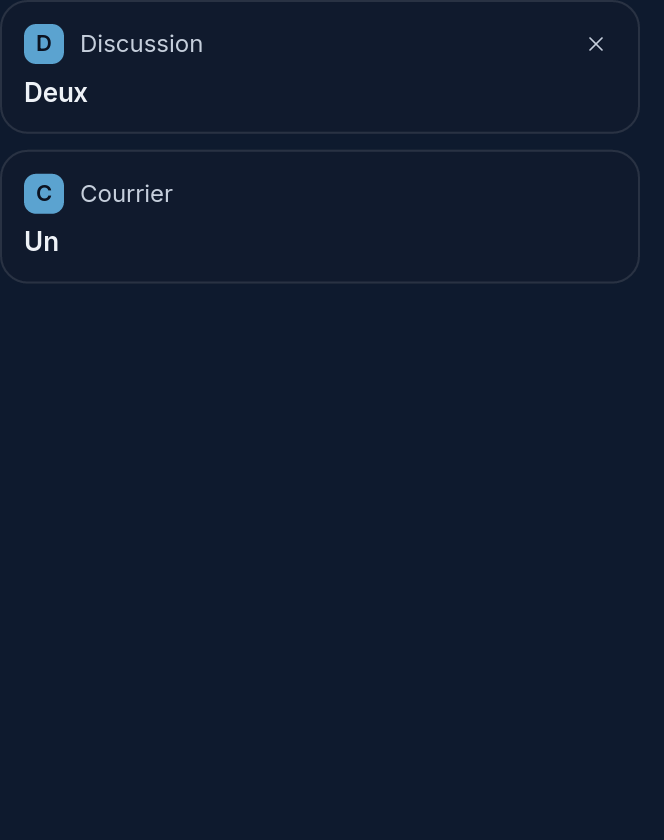
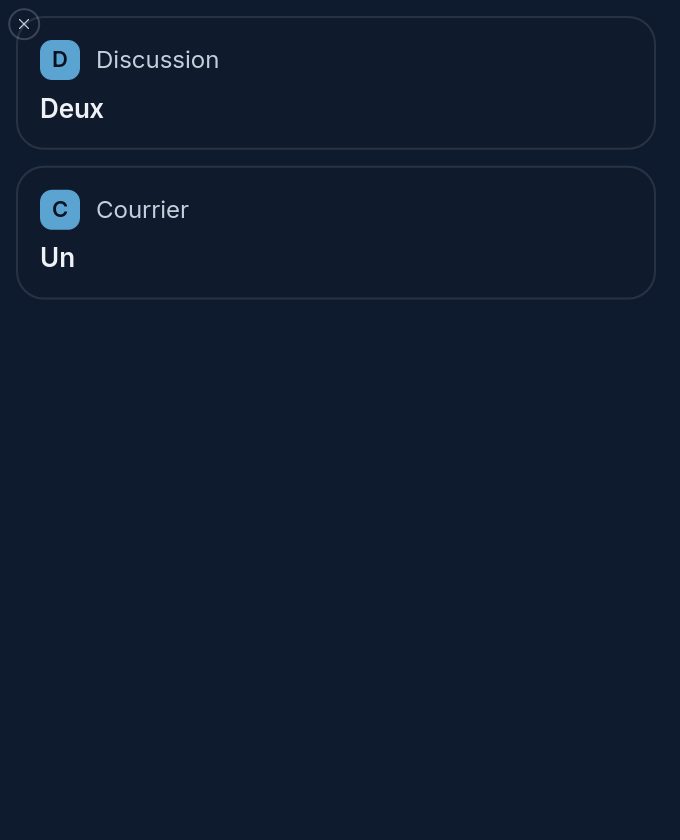
D-23f: the « × » of a bubble is the macOS badge, half outside its top left corner, faded in under the pointer

Changed region(s): [[0.0, 0.0, 0.9337, 0.3405]]

diff --git a/desktop/notifications/src/app.rs b/desktop/notifications/src/app.rs
@@ -20,7 +20,7 @@ use iced_exwlshell::shell::{ShellEvent, ShellReceiver};
 use iced_exwlshell::to_layer_message;
 use sherlock_ui::animated::hoverable;
 use sherlock_ui::ellipsis::ellipsis;
-use sherlock_ui::motion::{Animation, GEOMETRY_PRECISION};
+use sherlock_ui::motion::{Animation, Fade, GEOMETRY_PRECISION};
 use sherlock_ui::notifications::{self as ui, SPRING};
 use sherlock_ui::{color, typography};
 
@@ -199,6 +199,8 @@ struct Bubble {
     options: bool,
     /// The pointer is over it; a button is held on it.
     hovered: bool,
+    /// The opacity of its « × », fading in and out with the pointer (lot D-23f).
+    close: Fade,
     pressed: bool,
     /// How far the fingers pulled it to the right, and when they last moved.
     swipe: f32,
@@ -257,6 +259,7 @@ impl Notifications {
             !b.top.is_done(now, GEOMETRY_PRECISION)
                 || !b.slide.is_done(now, GEOMETRY_PRECISION)
                 || b.swipe != 0.0
+                || !b.close.is_done(now)
         })
     }
 
@@ -316,6 +319,9 @@ impl Notifications {
             Message::Hover(serial, held) => {
                 if let Some(bubble) = self.bubble_mut(serial) {
                     bubble.hovered = held;
+                    let shown = bubble.close.value(now);
+                    let target = if held { 1.0 } else { 0.0 };
+                    bubble.close = Fade::new(shown, target, now, ui::CLOSE_FADE);
                     bubble.pressed &= held;
                 }
                 if let Some(id) = self.live(serial) {
@@ -487,6 +493,7 @@ impl Notifications {
                 leaving: false,
                 options: false,
                 hovered: false,
+                close: Fade::new(0.0, 0.0, Duration::ZERO, Duration::ZERO),
                 pressed: false,
                 swipe: 0.0,
                 swiped_at: None,
@@ -607,13 +614,14 @@ impl Notifications {
         let layers = self.bubbles.iter().map(|b| {
             let id = b.serial;
             let dx = at(&b.slide, now) + b.swipe;
-            let slid = float(bubble(b)).translate(move |_, _| Vector::new(dx, 0.0));
+            let slid = float(bubble(b, now)).translate(move |_, _| Vector::new(dx, 0.0));
             // Keyed by the serial: a bubble that takes the place of another is measured anew.
             let measured = sensor(slid)
                 .key(id)
                 .anticipate(f32::MAX)
-                .on_show(move |size| Message::Measured(id, size.height))
-                .on_resize(move |size| Message::Measured(id, size.height));
+                // Its height without the room of « × » above it.
+                .on_show(move |size| Message::Measured(id, size.height - ui::CLOSE_OUTSET))
+                .on_resize(move |size| Message::Measured(id, size.height - ui::CLOSE_OUTSET));
             pin(measured).y(at(&b.top, now)).into()
         });
         Stack::with_children(layers)
@@ -635,7 +643,29 @@ fn at(animation: &Animation, now: Duration) -> f32 {
 
 /// A bubble: application, title, body and action buttons, as a card of the board. A click
 /// closes it or runs its default action; the pointer over it holds its timer.
-fn bubble(b: &Bubble) -> Element<'_, Message> {
+fn bubble(b: &Bubble, now: Duration) -> Element<'_, Message> {
+    // The room of « × », half outside the top left corner (lot D-23f), and the badge in it.
+    let room = Padding::ZERO.top(ui::CLOSE_OUTSET).left(ui::CLOSE_OUTSET);
+    let card = container(card(b)).padding(room);
+    if b.behind {
+        return card.into();
+    }
+    let shown = b.close.value(now);
+    let mut layers = iced::widget::stack![card];
+    if shown > 0.0 {
+        let badge = ui::close_badge(Message::Dismiss(b.serial), shown);
+        // Its centre on the curve of the corner.
+        layers = layers.push(container(badge).padding(ui::CLOSE_ON_CURVE));
+    }
+    // The pointer over the bubble or its « × »: the badge stays while it goes to it.
+    mouse_area(layers)
+        .on_enter(Message::Hover(b.serial, true))
+        .on_exit(Message::Hover(b.serial, false))
+        .into()
+}
+
+/// The card of a bubble, without the room of its « × ».
+fn card(b: &Bubble) -> Element<'_, Message> {
     let note = &b.note;
     let id = b.serial;
     // Behind the newest of its application, only its edge shows: an empty card of its height,
@@ -668,7 +698,7 @@ fn bubble(b: &Bubble) -> Element<'_, Message> {
         .into(),
     };
     // The application's name and the title on one line each, ending with « … » (D-23c).
-    let mut header = row![
+    let header = row![
         glyph,
         ellipsis(app_name(note))
             .size(ui::HEADER_SIZE)
@@ -677,10 +707,6 @@ fn bubble(b: &Bubble) -> Element<'_, Message> {
     ]
     .spacing(ui::HEADER_GAP)
     .align_y(Alignment::Center);
-    // « × » while the pointer is over it (D-23d).
-    if b.hovered && !b.behind {
-        header = header.push(ui::close_button(Message::Dismiss(id)));
-    }
     let mut content = column![header].spacing(ui::ROW_GAP);
     if !note.summary.is_empty() {
         content = content.push(ellipsis(note.summary.as_str()).font(typography::UI_SEMIBOLD));
@@ -747,10 +773,7 @@ fn bubble(b: &Bubble) -> Element<'_, Message> {
     // The blur behind its glass (lot D-37b).
     let card = sherlock_ui::glass::glass(card, ui::RADIUS);
     // A bubble behind another opens its pile; the others take a click, a press, a swipe.
-    let area = mouse_area(card)
-        .on_enter(Message::Hover(id, true))
-        .on_exit(Message::Hover(id, false))
-        .interaction(mouse::Interaction::Pointer);
+    let area = mouse_area(card).interaction(mouse::Interaction::Pointer);
     area.on_press(Message::Press(id))
         .on_release(Message::Click(id))
         .on_scroll(move |delta| match delta {

diff --git a/desktop/notifications/src/layout.rs b/desktop/notifications/src/layout.rs
@@ -1,11 +1,14 @@
 //! Pure geometry of the stack of bubbles, in the coordinates of the surface, which the
 //! compositor places below the area the top bar reserves (see `crate::surface`).
 
-use sherlock_ui::notifications::{GAP, PILE_DEPTH, PILE_STEP, SCREEN_EDGE, WIDTH};
+use sherlock_ui::notifications::{
+    CLOSE_ON_CURVE, CLOSE_OUTSET, CLOSE_SIZE, GAP, PILE_DEPTH, PILE_STEP, SCREEN_EDGE, WIDTH,
+};
 
-/// Width of the surface: a bubble and the room to the screen edge, so that a bubble sliding
-/// out leaves the screen at its edge.
-pub const SURFACE_WIDTH: f32 = WIDTH + SCREEN_EDGE;
+/// Width of the surface: the room of « × » on the left (lot D-23f), a bubble and the room to
+/// the screen edge, so that a bubble sliding out leaves the screen at its edge. The bubbles are
+/// drawn `CLOSE_OUTSET` from the left and from the top of the surface.
+pub const SURFACE_WIDTH: f32 = CLOSE_OUTSET + WIDTH + SCREEN_EDGE;
 /// Offset of a bubble out of sight, to the right: where it slides in from and out to.
 pub const OUT: f32 = SURFACE_WIDTH;
 
@@ -88,20 +91,30 @@ pub fn stack_piled(heights: &[f32], places: &[Place]) -> Vec<f32> {
 pub fn surface_height(bubbles: impl IntoIterator<Item = (f32, f32)>) -> u32 {
     let bottom = bubbles
         .into_iter()
-        .map(|(top, height)| top + height)
+        .map(|(top, height)| CLOSE_OUTSET + top + height)
         .fold(0.0_f32, f32::max);
     (bottom.ceil() as u32).max(1)
 }
 
-/// Where the surface takes the pointer: the rectangle of each bubble at `(top, height)`, in
-/// whole pixels rounded out. Between and beside the bubbles, clicks go to the window below.
+/// Where the surface takes the pointer: the rectangle of each bubble at `(top, height)`, and the
+/// square of its « × » on its top left corner (lot D-23f), in whole pixels rounded out. Between
+/// and beside the bubbles, clicks go to the window below.
 pub fn region(bubbles: impl IntoIterator<Item = (f32, f32)>) -> Vec<(i32, i32, i32, i32)> {
+    // The badge's square, rounded out: from the curve of the corner, less half the badge.
+    let (inset, side) = (
+        CLOSE_ON_CURVE.floor() as i32,
+        (CLOSE_SIZE + 1.0).ceil() as i32,
+    );
+    let outset = CLOSE_OUTSET as i32;
     bubbles
         .into_iter()
-        .map(|(top, height)| {
-            let y = top.floor() as i32;
-            let bottom = (top + height).ceil() as i32;
-            (0, y, WIDTH.ceil() as i32, bottom - y)
+        .flat_map(|(top, height)| {
+            let y = (CLOSE_OUTSET + top).floor() as i32;
+            let bottom = (CLOSE_OUTSET + top + height).ceil() as i32;
+            [
+                (outset, y, WIDTH.ceil() as i32, bottom - y),
+                (inset, y - outset + inset, side, side),
+            ]
         })
         .collect()
 }
@@ -116,7 +129,7 @@ mod tests {
         assert_eq!(stack(&[80.0, 120.5, 60.0]), [0.0, 88.0, 216.5]);
         let tops = stack(&[80.0, 120.5, 60.0]);
         let spans = tops.iter().copied().zip([80.0, 120.5, 60.0]);
-        assert_eq!(surface_height(spans), 277);
+        assert_eq!(surface_height(spans), 277 + CLOSE_OUTSET as u32);
         assert_eq!(surface_height([]), 1);
     }
 
@@ -154,7 +167,16 @@ mod tests {
     #[test]
     fn the_pointer_goes_through_the_gaps() {
         let region = region([(0.0, 80.0), (88.0, 120.5)]);
-        assert_eq!(region, [(0, 0, 320, 80), (0, 88, 320, 121)]);
+        // Each bubble, then the square of its « × », half outside its top left corner.
+        assert_eq!(
+            region,
+            [
+                (8, 8, 320, 80),
+                (4, 4, 17, 17),
+                (8, 96, 320, 121),
+                (4, 92, 17, 17)
+            ]
+        );
         // The room on the right, towards the screen edge, takes no click either.
         assert!(
             region

diff --git a/desktop/sherlock-ui/src/notifications.rs b/desktop/sherlock-ui/src/notifications.rs
@@ -96,6 +96,18 @@ pub const SWIPE_RESISTANCE: f32 = 0.25;
 pub const SWIPE_LINE: f32 = 40.0;
 /// The cross of « × », inside its button the size of the tile.
 pub const CLOSE_GLYPH: f32 = 12.0;
+/// « × » of a bubble, as on macOS (lot D-23f, the author's choice): a round badge on the top
+/// left corner, half outside the bubble, its side, its cross; the surface keeps `CLOSE_OUTSET`
+/// of room for it above and on the left. It fades in over `CLOSE_FADE` under the pointer.
+pub const CLOSE_SIZE: f32 = 16.0;
+pub const CLOSE_BADGE_GLYPH: f32 = 9.0;
+pub const CLOSE_OUTSET: f32 = CLOSE_SIZE / 2.0;
+pub const CLOSE_FADE: Duration = Duration::from_millis(120);
+/// How far inside the corner of the bubble's box the badge's centre sits: on the curve of its
+/// rounded corner, as on macOS, not beside it.
+pub const CLOSE_ON_CURVE: f32 = RADIUS * (1.0 - std::f32::consts::FRAC_1_SQRT_2);
+// The room above the badge is taken from the gap under the bar: the bubbles stay in place.
+const _: () = assert!(CLOSE_OUTSET <= BELOW_BAR);
 /// The theme icon of a notification is looked up at twice the tile (screens at scale 2).
 pub const ICON_LOOKUP_SIZE: u32 = 40;
 
@@ -214,6 +226,34 @@ mod styles {
             }
         }
         all.into()
+    }
+
+    /// « × » of a bubble under the pointer, the macOS badge (lot D-23f): round, on the glass of
+    /// a card, its border, at `opacity`.
+    pub fn close_badge<'a, Message: Clone + 'a>(
+        on_press: Message,
+        opacity: f32,
+    ) -> iced::Element<'a, Message> {
+        let p = crate::color::palette();
+        let glyph = crate::component::icon(
+            crate::icon::Icon::Close,
+            CLOSE_BADGE_GLYPH,
+            p.text_secondary,
+        );
+        let content = container(glyph).center(iced::Length::Fill);
+        let mut control = crate::component::Control::new(
+            content,
+            theme::secondary,
+            Some(on_press),
+            CLOSE_SIZE / 2.0,
+        );
+        control.label = Some(text::CLOSE);
+        control.button = control
+            .button
+            .width(CLOSE_SIZE)
+            .height(CLOSE_SIZE)
+            .padding(0);
+        crate::animated::reveal(control).opacity(opacity).into()
     }
 
     /// « × » of a bubble under the pointer (D-23d): the size of the application's tile, so that

diff --git a/desktop/notifications/src/lib.rs b/desktop/notifications/src/lib.rs
@@ -53,7 +53,8 @@ pub fn surface(height: u32) -> NewLayerShellSettings {
         anchor: Anchor::Top | Anchor::Right,
         exclusive_zone: Some(0),
         margin: Some(Margin {
-            top: ui::BELOW_BAR as i32,
+            // The room of « × » above the first bubble comes out of the gap under the bar.
+            top: (ui::BELOW_BAR - ui::CLOSE_OUTSET) as i32,
             ..Margin::default()
         }),
         keyboard_interactivity: KeyboardInteractivity::None,
@@ -134,19 +135,23 @@ mod tests {
         // 0, not -1: the compositor places it below the zone the bar reserves.
         assert_eq!(settings.exclusive_zone, Some(0));
         let margin = settings.margin.unwrap_or_default();
-        assert_eq!((margin.top, margin.right), (ui::BELOW_BAR as i32, 0));
+        assert_eq!(
+            (margin.top, margin.right),
+            ((ui::BELOW_BAR - ui::CLOSE_OUTSET) as i32, 0)
+        );
         assert_eq!(settings.keyboard_interactivity, KeyboardInteractivity::None);
-        assert_eq!(settings.size, LayerSize::px(332, 200));
+        assert_eq!(settings.size, LayerSize::px(340, 200));
         // On the reference screen: the bar reserves its margin and height, the first bubble
         // starts where the board puts the notification centre, 12 from the right edge.
         let reserved = metrics::TOP_BAR_MARGIN_TOP + metrics::TOP_BAR_HEIGHT;
-        let first = reserved + margin.top as f32 + layout::stack(&[90.0])[0];
+        let first = reserved + margin.top as f32 + ui::CLOSE_OUTSET + layout::stack(&[90.0])[0];
         assert_eq!(first, 54.0);
-        let right = metrics::REFERENCE_SCREEN.0 - margin.right as f32 - layout::SURFACE_WIDTH;
+        let right = metrics::REFERENCE_SCREEN.0 - margin.right as f32 - layout::SURFACE_WIDTH
+            + ui::CLOSE_OUTSET;
         assert_eq!(
             right + ui::WIDTH,
             metrics::REFERENCE_SCREEN.0 - ui::SCREEN_EDGE
         );
-        assert_eq!(surface(0).size, LayerSize::px(332, 1));
+        assert_eq!(surface(0).size, LayerSize::px(340, 1));
     }
 }

diff --git a/desktop/notifications/tests/render.rs b/desktop/notifications/tests/render.rs
@@ -265,7 +265,8 @@ mod tests {
     }
 
     /// D-23d: under the pointer a bubble shows « × », which dismisses it; swiped to the right
-    /// past a third of its width it goes, a shorter swipe springs back. `notifications-hover`.
+    /// past a third of its width it goes, a shorter swipe springs back. D-23f: the « × » is the
+    /// macOS badge, half outside the top left corner, faded in. `notifications-hover`.
     #[test]
     fn a_bubble_goes_with_its_close_button_or_a_swipe() {
         let (sink, inbox) = Inbox::new();
@@ -283,13 +284,16 @@ mod tests {
         settle(&mut app);
         // Serial 2, the newest, is on top.
         let _ = app.update(Message::Hover(2, true));
+        settle(&mut app);
         capture(&app, "notifications-hover");
-        // « × » at the right end of the header of the bubble on top.
+        // A taller bubble, with its actions: the badge on its corner too.
+        let mut tall = bubbles();
+        let _ = tall.update(Message::Hover(2, true));
+        settle(&mut tall);
+        capture(&tall, "notifications-hover-actions");
+        // « × » on the top left corner of the bubble on top, its outer half included.
         let messages = messages_of(&app, |ui| {
-            ui.point_at(Point::new(
-                ui::WIDTH - ui::PADDING - 8.0,
-                ui::PADDING + 10.0,
-            ));
+            ui.point_at(Point::new(6.0, 6.0));
             let _ = ui.simulate(simulator::click());
         });
         assert!(

diff --git a/docs/notifications.md b/docs/notifications.md
@@ -170,9 +170,13 @@ right edge; it slides out the same way, and the bubbles below close up. Both fol
 click counts on release, after a press on the bubble, and the press darkens it: the hover and
 press veils of `animated::hoverable` fade in over the glass, under the text (D-23d).
 
-**Closing** (D-23d). Under the pointer a bubble shows « × » at the right end of its header
-(`notifications::close_button`, the size of the tile, so that nothing moves): it closes the
-notification, dismissed (reason 2), with no action. Swiped to the right with two fingers, the
+**Closing** (D-23d, D-23f). Under the pointer a bubble shows « × » as on macOS, the author's
+choice: a round badge of 16 on its top left corner, its centre on the curve of the corner, half
+outside the bubble, fading in and out over 120 ms (`notifications::close_badge`). It closes the
+notification, dismissed (reason 2), with no action. The surface keeps 8 of room for it on the
+left and above (`CLOSE_OUTSET`, taken from the gap under the bar: the bubbles stay where they
+were), and its input region takes the badge's square besides the bubble, nothing more: the
+pointer over the badge stays over the bubble, and beside them it goes to the window below. Swiped to the right with two fingers, the
 bubble follows them, held back to a quarter of the way to the left; once they rest 120 ms
 (`SWIPE_END`), past a third of its width (`SWIPE_DISMISS`) it slides on out and is dismissed,
 else it springs back.
@@ -186,6 +190,7 @@ stack, its newest bubble then saying « Afficher moins ». A pile of one closes 
 ![A pile of three bubbles above another application](../desktop/notifications/screenshots/pile.png)
 ![The pile opened](../desktop/notifications/screenshots/pile-open.png)
 ![« × » under the pointer](../desktop/notifications/screenshots/hover.png)
+![« × » on a bubble with its actions](../desktop/notifications/screenshots/hover-actions.png)
 
 The pointer over a bubble holds its timer, which goes on with the time it had left once it leaves;
 a replacement meanwhile does not restart it. A bubble on its way out takes no click: its
